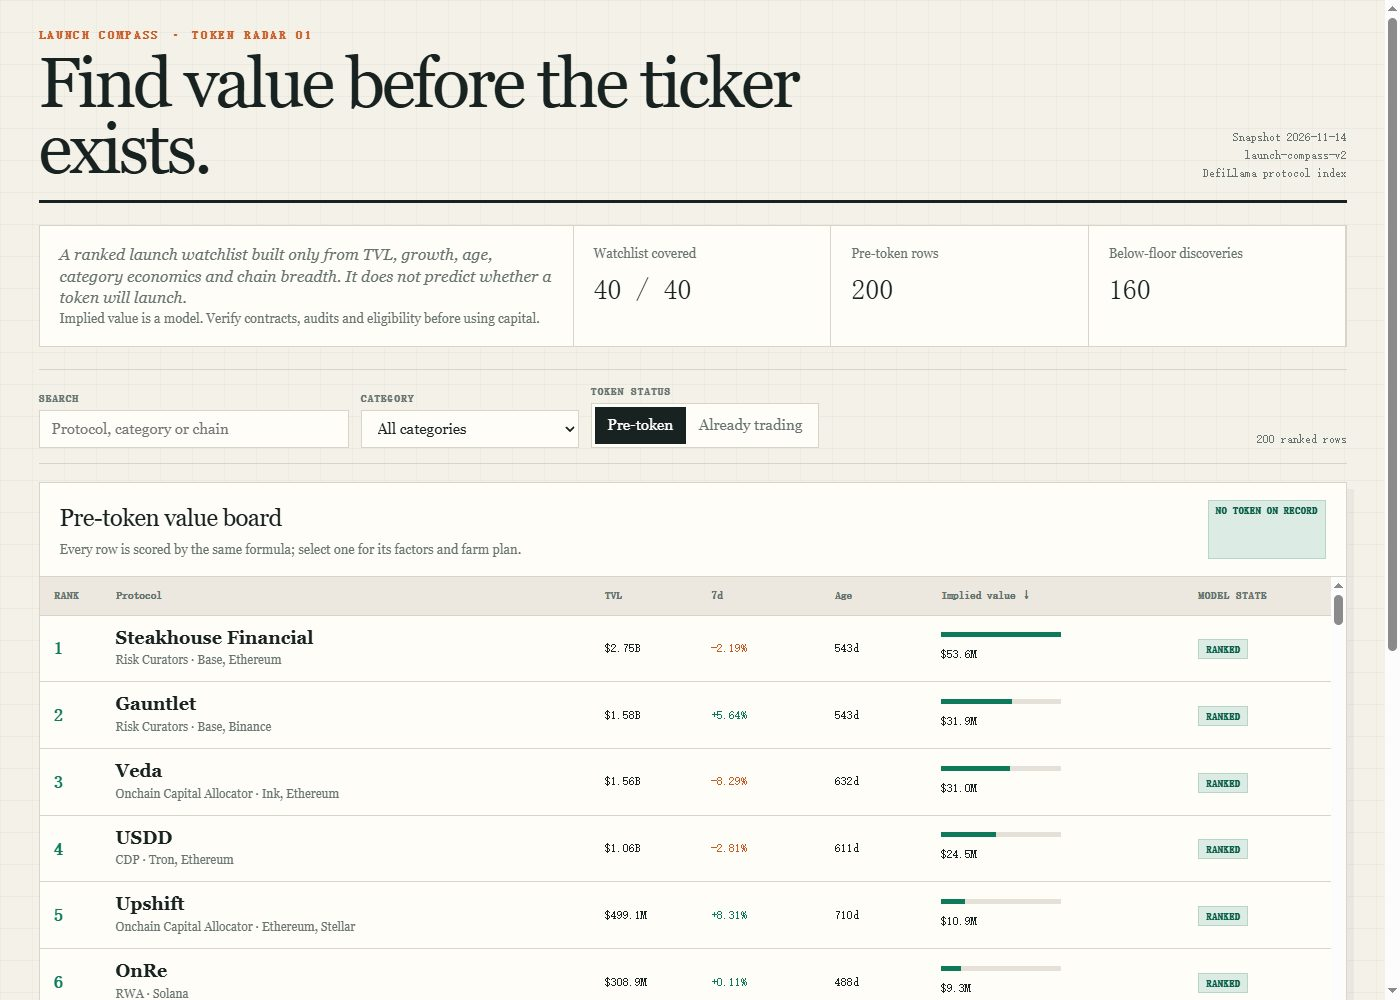
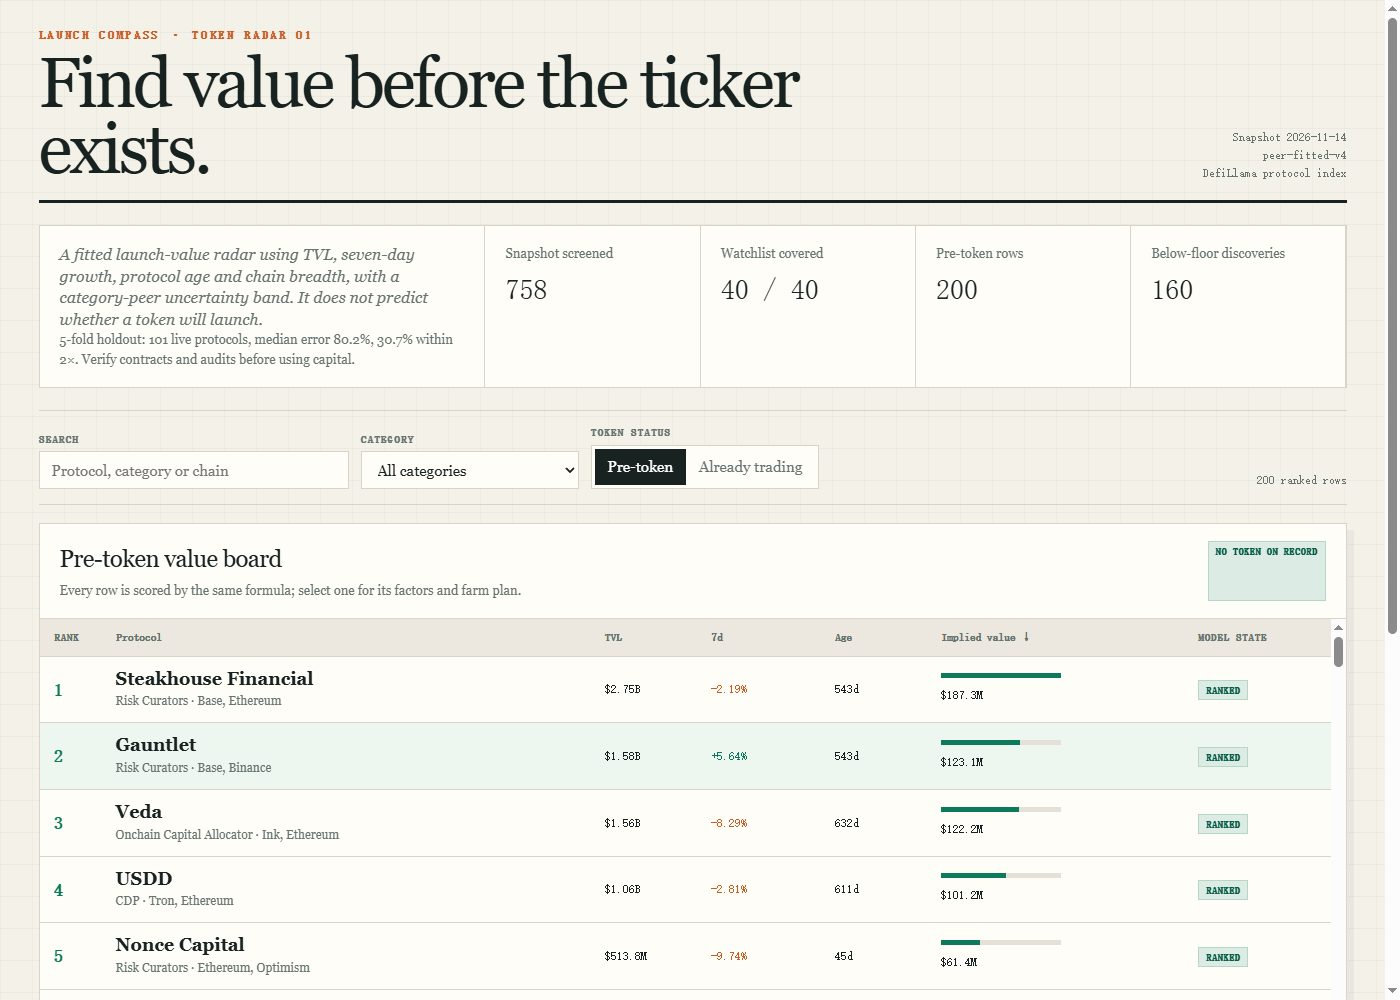
Calibrate launch values with peer regression

diff --git a/lib/model.ts b/lib/model.ts
@@ -21,26 +21,18 @@ export interface Snapshot {
 
 export interface ModelConfig {
   version: string;
-  baseMultiple: number;
-  growthWeight: number;
-  growthFloor: number;
-  growthCap: number;
-  maturityFloor: number;
-  maturityDays: number;
-  unknownAgeDays: number;
+  fallbackRatio: number;
+  ratioMinimum: number;
+  ratioMaximum: number;
   earlyRows: number;
   liveRows: number;
 }
 
 export const MODEL: ModelConfig = {
-  version: "launch-compass-v2",
-  baseMultiple: 0.18,
-  growthWeight: 0.38,
-  growthFloor: -50,
-  growthCap: 110,
-  maturityFloor: 0.55,
-  maturityDays: 1460,
-  unknownAgeDays: 540,
+  version: "peer-fitted-v4",
+  fallbackRatio: 0.16,
+  ratioMinimum: 0.015,
+  ratioMaximum: 2.5,
   earlyRows: 160,
   liveRows: 30,
 };
@@ -54,13 +46,18 @@ export interface BoardRow {
   tvl_usd: number;
   change_7d: number | null;
   age_days: number | null;
+  implied_value_low_usd: number;
+  implied_value_high_usd: number;
   implied_value_usd: number;
   token_status: "pre-token";
   value_drivers: {
-    category_multiple: number;
-    growth_multiplier: number;
-    maturity_multiplier: number;
-    breadth_multiplier: number;
+    fitted_ratio: number;
+    fitted_ratio_low: number;
+    fitted_ratio_high: number;
+    training_sample: number;
+    growth_coefficient: number;
+    age_coefficient: number;
+    chain_coefficient: number;
   };
   farm_steps: string[];
 }
@@ -84,8 +81,22 @@ export interface RadarData {
   board_size: number;
   early_size: number;
   live_size: number;
+  universe_size: number;
+  calibration: {
+    sample_size: number;
+    folds: number;
+    median_error_pct: number;
+    within_two_x_pct: number;
+  };
   rows: Omit<BoardRow, "farm_steps">[];
   live: LiveRow[];
+}
+
+interface PeerBenchmark {
+  median: number;
+  low: number;
+  high: number;
+  count: number;
 }
 
 const DAY_MS = 86_400_000;
@@ -162,37 +173,190 @@ export function ageDays(asOf: string, listedAt: string | null): number | null {
   return Math.max(0, Math.floor((end - start) / DAY_MS));
 }
 
-/** Category economics, not protocol names, set the launch-value multiple. */
-export function categoryMultiple(category: string | null): number {
-  const c = (category ?? "other").toLowerCase();
-  if (/(rwa|real world)/.test(c)) return 0.24;
-  if (/(derivative|perpetual|options)/.test(c)) return 0.21;
-  if (/(lending|cdp|collateral)/.test(c)) return 0.17;
-  if (/(dex|exchange)/.test(c)) return 0.16;
-  if (/(yield|leveraged farm)/.test(c)) return 0.15;
-  if (/(liquid staking|restaking)/.test(c)) return 0.13;
-  if (/(stable|synthetics)/.test(c)) return 0.12;
-  if (/(bridge|canonical bridge)/.test(c)) return 0.1;
-  return 0.14;
+function quantile(values: number[], fraction: number): number {
+  if (values.length === 0) return MODEL.fallbackRatio;
+  const ordered = values.slice().sort((a, b) => a - b);
+  const position = (ordered.length - 1) * fraction;
+  const low = Math.floor(position);
+  const high = Math.ceil(position);
+  if (low === high) return ordered[low]!;
+  return ordered[low]! * (high - position) + ordered[high]! * (position - low);
 }
 
-export function weightedValue(p: SnapshotProtocol, asOf: string): { value: number; factors: BoardRow["value_drivers"]; age: number | null } {
+function benchmark(values: number[]): PeerBenchmark {
+  const usable = values.filter((value) => Number.isFinite(value) && value > 0);
+  if (usable.length === 0) {
+    return { median: MODEL.fallbackRatio, low: MODEL.fallbackRatio, high: MODEL.fallbackRatio, count: 0 };
+  }
+  return {
+    median: quantile(usable, 0.5),
+    low: quantile(usable, 0.25),
+    high: quantile(usable, 0.75),
+    count: usable.length,
+  };
+}
+
+interface Benchmarks {
+  byCategory: Map<string, PeerBenchmark>;
+  overall: PeerBenchmark;
+  coefficients: number[];
+  calibration: RadarData["calibration"];
+}
+
+function ratioFor(p: SnapshotProtocol): number | null {
+  if (!hasToken(p) || p.mcap_usd === null || p.mcap_usd <= 0 || p.tvl_usd <= 0) return null;
+  const ratio = p.mcap_usd / p.tvl_usd;
+  return ratio >= 0.015 && ratio <= 2.5 ? ratio : null;
+}
+
+function categoryKey(category: string | null): string {
+  return (category ?? "other").toLowerCase();
+}
+
+function buildBenchmarks(snapshot: Snapshot): Benchmarks {
+  const grouped = new Map<string, number[]>();
+  const all: number[] = [];
+  for (const protocol of snapshot.protocols) {
+    const ratio = ratioFor(protocol);
+    if (ratio === null) continue;
+    all.push(ratio);
+    const key = categoryKey(protocol.category);
+    const values = grouped.get(key) ?? [];
+    values.push(ratio);
+    grouped.set(key, values);
+  }
+  const byCategory = new Map<string, PeerBenchmark>();
+  for (const [key, values] of grouped) {
+    if (values.length >= 4) byCategory.set(key, benchmark(values));
+  }
+  const overall = benchmark(all);
+  const training = snapshot.protocols.filter((p) => ratioFor(p) !== null);
+  const coefficients = fitCoefficients(training, snapshot.as_of);
+  return {
+    byCategory,
+    overall,
+    coefficients,
+    calibration: crossValidate(training, snapshot.as_of),
+  };
+}
+
+function peerBenchmark(p: SnapshotProtocol, benchmarks: Benchmarks): PeerBenchmark {
+  return benchmarks.byCategory.get(categoryKey(p.category)) ?? benchmarks.overall;
+}
+
+function featureVector(p: SnapshotProtocol, asOf: string): number[] {
+  const days = ageDays(asOf, p.listed_at) ?? 540;
+  return [
+    1,
+    Math.log10(Math.max(1, p.tvl_usd)),
+    Math.min(110, Math.max(-50, p.change_7d ?? 0)) / 100,
+    Math.min(1460, Math.max(0, days)) / 1460,
+    Math.log2(Math.max(1, p.chains.length)),
+  ];
+}
+
+function solve(matrix: number[][], vector: number[]): number[] {
+  const n = vector.length;
+  const a = matrix.map((row, index) => [...row, vector[index]!]);
+  for (let column = 0; column < n; column++) {
+    let pivot = column;
+    for (let row = column + 1; row < n; row++) {
+      if (Math.abs(a[row]![column]!) > Math.abs(a[pivot]![column]!)) pivot = row;
+    }
+    [a[column], a[pivot]] = [a[pivot]!, a[column]!];
+    const divisor = a[column]![column]! || 1e-12;
+    for (let j = column; j <= n; j++) a[column]![j] = a[column]![j]! / divisor;
+    for (let row = 0; row < n; row++) {
+      if (row === column) continue;
+      const factor = a[row]![column]!;
+      for (let j = column; j <= n; j++) a[row]![j] = a[row]![j]! - factor * a[column]![j]!;
+    }
+  }
+  return a.map((row) => row[n]!);
+}
+
+function fitCoefficients(rows: SnapshotProtocol[], asOf: string): number[] {
+  const size = 5;
+  const xtx = Array.from({ length: size }, () => Array<number>(size).fill(0));
+  const xty = Array<number>(size).fill(0);
+  for (const row of rows) {
+    const x = featureVector(row, asOf);
+    const y = Math.log10(Math.max(1, row.mcap_usd ?? 1));
+    for (let i = 0; i < size; i++) {
+      xty[i] += x[i]! * y;
+      for (let j = 0; j < size; j++) xtx[i]![j] += x[i]! * x[j]!;
+    }
+  }
+  const ridge = [0, 0.02, 0.2, 0.2, 0.2];
+  for (let i = 0; i < size; i++) xtx[i]![i] += ridge[i]!;
+  return solve(xtx, xty);
+}
+
+function predictedMarketCap(p: SnapshotProtocol, asOf: string, coefficients: number[]): number {
+  const x = featureVector(p, asOf);
+  const logValue = x.reduce((sum, value, index) => sum + value * coefficients[index]!, 0);
+  return 10 ** logValue;
+}
+
+function crossValidate(rows: SnapshotProtocol[], asOf: string): RadarData["calibration"] {
+  const errors: number[] = [];
+  let withinTwo = 0;
+  const folds = 5;
+  for (let fold = 0; fold < folds; fold++) {
+    const train = rows.filter((_, index) => index % folds !== fold);
+    const test = rows.filter((_, index) => index % folds === fold);
+    const coefficients = fitCoefficients(train, asOf);
+    for (const row of test) {
+      const predicted = predictedMarketCap(row, asOf, coefficients);
+      const actual = row.mcap_usd ?? predicted;
+      errors.push(Math.abs(predicted - actual) / Math.max(1, actual));
+      if (predicted >= actual / 2 && predicted <= actual * 2) withinTwo += 1;
+    }
+  }
+  return {
+    sample_size: rows.length,
+    folds,
+    median_error_pct: errors.length ? round(quantile(errors, 0.5) * 100, 1) : 0,
+    within_two_x_pct: errors.length ? round((withinTwo / errors.length) * 100, 1) : 0,
+  };
+}
+
+function weightedValue(
+  p: SnapshotProtocol,
+  asOf: string,
+  benchmarks: Benchmarks,
+): {
+  value: number;
+  low: number;
+  high: number;
+  factors: BoardRow["value_drivers"];
+  age: number | null;
+} {
   const age = ageDays(asOf, p.listed_at);
-  const eAge = age ?? MODEL.unknownAgeDays;
-  const growth = Math.min(MODEL.growthCap, Math.max(MODEL.growthFloor, p.change_7d ?? 0));
-  const growthMultiplier = Math.max(0.35, 1 + (growth / 100) * MODEL.growthWeight);
-  const maturityMultiplier = MODEL.maturityFloor + (Math.min(Math.max(eAge, 0), MODEL.maturityDays) / MODEL.maturityDays) * (1 - MODEL.maturityFloor);
-  const breadthMultiplier = 1 + Math.min(0.12, Math.log2(Math.max(1, p.chains.length)) * 0.025);
-  const categoryMultiplier = categoryMultiple(p.category);
-  const value = Math.max(1, Math.round(p.tvl_usd * MODEL.baseMultiple * categoryMultiplier * growthMultiplier * maturityMultiplier * breadthMultiplier));
+  const fittedRatio = Math.min(
+    MODEL.ratioMaximum,
+    Math.max(
+      MODEL.ratioMinimum,
+      predictedMarketCap(p, asOf, benchmarks.coefficients) / Math.max(1, p.tvl_usd),
+    ),
+  );
+  const peers = peerBenchmark(p, benchmarks);
+  const lowRatio = fittedRatio * (peers.low / Math.max(peers.median, 1e-9));
+  const highRatio = fittedRatio * (peers.high / Math.max(peers.median, 1e-9));
+  const value = Math.max(1, Math.round(p.tvl_usd * fittedRatio));
   return {
     value,
+    low: Math.max(1, Math.round(p.tvl_usd * lowRatio)),
+    high: Math.max(1, Math.round(p.tvl_usd * highRatio)),
     age,
     factors: {
-      category_multiple: round(categoryMultiplier, 4),
-      growth_multiplier: round(growthMultiplier, 4),
-      maturity_multiplier: round(maturityMultiplier, 4),
-      breadth_multiplier: round(breadthMultiplier, 4),
+      fitted_ratio: round(fittedRatio, 4),
+      fitted_ratio_low: round(lowRatio, 4),
+      fitted_ratio_high: round(highRatio, 4),
+      training_sample: benchmarks.calibration.sample_size,
+      growth_coefficient: round(benchmarks.coefficients[2] ?? 0, 4),
+      age_coefficient: round(benchmarks.coefficients[3] ?? 0, 4),
+      chain_coefficient: round(benchmarks.coefficients[4] ?? 0, 4),
     },
   };
 }
@@ -246,6 +410,7 @@ export function farmSteps(p: SnapshotProtocol, age: number | null): string[] {
 
 export function buildRadar(snapshot: Snapshot): { board: BoardRow[]; radar: RadarData } {
   const index = new Map(snapshot.protocols.map((p) => [p.slug, p]));
+  const benchmarks = buildBenchmarks(snapshot);
   const selected = new Map<string, SnapshotProtocol>();
   for (const slug of snapshot.watchlist) {
     const protocol = index.get(slug);
@@ -257,7 +422,10 @@ export function buildRadar(snapshot: Snapshot): { board: BoardRow[]; radar: Rada
     .slice(0, MODEL.earlyRows);
   for (const protocol of early) selected.set(protocol.slug, protocol);
 
-  const scored = [...selected.values()].map((protocol) => ({ protocol, ...weightedValue(protocol, snapshot.as_of) }));
+  const scored = [...selected.values()].map((protocol) => ({
+    protocol,
+    ...weightedValue(protocol, snapshot.as_of, benchmarks),
+  }));
   scored.sort((a, b) => b.value - a.value || a.protocol.slug.localeCompare(b.protocol.slug));
   const board = scored.map((row, index): BoardRow => ({
     rank: index + 1,
@@ -268,6 +436,8 @@ export function buildRadar(snapshot: Snapshot): { board: BoardRow[]; radar: Rada
     tvl_usd: row.protocol.tvl_usd,
     change_7d: row.protocol.change_7d,
     age_days: row.age,
+    implied_value_low_usd: row.low,
+    implied_value_high_usd: row.high,
     implied_value_usd: row.value,
     token_status: "pre-token",
     value_drivers: row.factors,
@@ -297,6 +467,8 @@ export function buildRadar(snapshot: Snapshot): { board: BoardRow[]; radar: Rada
     board_size: board.length,
     early_size: board.filter((row) => !snapshot.watchlist.includes(row.slug)).length,
     live_size: live.length,
+    universe_size: snapshot.protocols.length,
+    calibration: benchmarks.calibration,
     rows: board.map(({ farm_steps: _steps, ...row }) => row),
     live,
   };

diff --git a/dashboard/dashboard.js b/dashboard/dashboard.js
@@ -122,11 +122,12 @@
         node("div", { class: "metric" }, node("span", { text: "TVL" }), node("b", { text: money(row.tvl_usd) })),
         node("div", { class: "metric" }, node("span", { text: "7-day TVL" }), node("b", { text: pct(row.change_7d) })),
         node("div", { class: "metric" }, node("span", { text: "Without token" }), node("b", { text: age(row.age_days) })),
-        node("div", { class: "metric" }, node("span", { text: "Category factor" }), node("b", { text: "×" + row.value_drivers.category_multiple })),
-        node("div", { class: "metric" }, node("span", { text: "Growth factor" }), node("b", { text: "×" + row.value_drivers.growth_multiplier })),
+        node("div", { class: "metric" }, node("span", { text: "Fitted FDV/TVL" }), node("b", { text: "×" + row.value_drivers.fitted_ratio })),
+        node("div", { class: "metric" }, node("span", { text: "7d sensitivity" }), node("b", { text: row.value_drivers.growth_coefficient })),
         node("div", { class: "metric" }, node("span", { text: "Implied value" }), node("b", { text: money(row.implied_value_usd) }))
       )
     ));
+    body.appendChild(node("p", { class: "subtle", text: "Peer range: " + money(row.implied_value_low_usd) + " to " + money(row.implied_value_high_usd) + ". The range uses the category peers' lower and upper quartile FDV/TVL, not a promise." }));
     body.appendChild(node("section", { class: "detail-section" },
       node("h3", { text: "Farm plan" }),
       node("ol", { class: "steps" }, steps(row).map(function (step) { return node("li", { text: step }); }))
@@ -153,9 +154,10 @@
   function summary() {
     return node("section", { class: "summary" },
       node("div", null,
-        node("p", { class: "note", text: "A ranked launch watchlist built only from TVL, growth, age, category economics and chain breadth. It does not predict whether a token will launch." }),
-        node("p", { class: "subtle", text: "Implied value is a model. Verify contracts, audits and eligibility before using capital." })
+        node("p", { class: "note", text: "A fitted launch-value radar using TVL, seven-day growth, protocol age and chain breadth, with a category-peer uncertainty band. It does not predict whether a token will launch." }),
+        node("p", { class: "subtle", text: "5-fold holdout: " + DATA.calibration.sample_size + " live protocols, median error " + DATA.calibration.median_error_pct + "%, " + DATA.calibration.within_two_x_pct + "% within 2×. Verify contracts and audits before using capital." })
       ),
+      node("div", null, node("p", { text: "Snapshot screened" }), node("strong", { text: String(DATA.universe_size) })),
       node("div", null, node("p", { text: "Watchlist covered" }), node("strong", { text: DATA.watchlist_size + " / " + DATA.watchlist_size })),
       node("div", null, node("p", { text: "Pre-token rows" }), node("strong", { text: String(DATA.board_size) })),
       node("div", null, node("p", { text: "Below-floor discoveries" }), node("strong", { text: String(DATA.early_size) }))
@@ -249,7 +251,7 @@
         node("h2", { text: "Value is a weighted function, not a name list." }),
         node("p", { text: "A protocol below the house floor can still enter the early radar. The watchlist is always included, and live-token protocols are excluded from the ranking." })
       ),
-      node("div", { class: "formula", text: "implied = TVL × 0.18 × categoryMultiple × growthMultiplier × maturityMultiplier × chainBreadthMultiplier\ncategory = category economics only\ngrowth = clamp(7d TVL change, -50%, +110%) × 0.38\nmaturity = 55% + age / 1,460d × 45%\nearly radar = top 160 pre-token protocols below the floor by TVL" })
+      node("div", { class: "formula", text: "log10(marketCap) = intercept + β1·log10(TVL) + β2·clamp(7d growth) + β3·age + β4·log2(chains)\nfit = ridge least squares on live-token protocols in the sealed snapshot\nvalidation = 5-fold holdout, not fitted on the test fold\nimplied = TVL × the fitted market-cap / TVL ratio\nrange = category peers' 25th-75th percentile ratio around the fitted value\nsample = " + DATA.calibration.sample_size + " live protocols; folds = " + DATA.calibration.folds + "\nearly radar = top 160 pre-token protocols below the floor by TVL" })
     );
   }
 

diff --git a/dashboard/dashboard.css b/dashboard/dashboard.css
@@ -58,7 +58,7 @@ h1 {
 }
 .summary {
   display: grid;
-  grid-template-columns: 1.35fr repeat(3, .65fr);
+  grid-template-columns: 1.35fr repeat(4, .65fr);
   gap: 1px;
   margin: 22px 0;
   background: var(--line);
